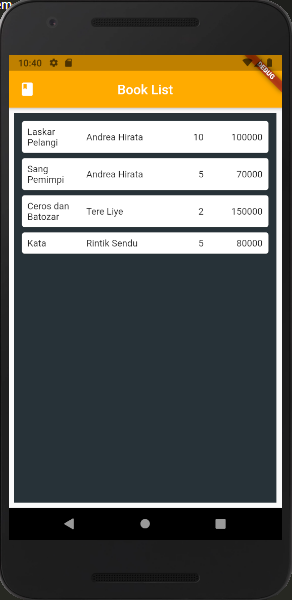
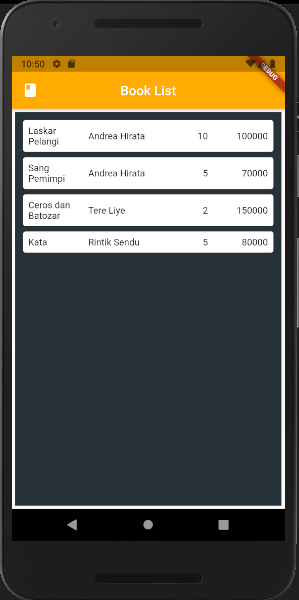
add image Tugas Praktikum-Navigasi Dan Rute

Changed region(s): [[0.0, 0.0, 1.0, 0.99], [0.6781, 0.0, 0.7089, 0.03]]

diff --git a/lib/pages/item_page.dart b/lib/pages/item_page.dart
@@ -36,7 +36,7 @@ class ItemPage extends StatelessWidget {
                       Container(
                         margin: EdgeInsets.only(bottom: 10),
                         child: Text(
-                          "Nama : " + tempItem.judul,
+                          "Judul Buku : " + tempItem.judul,
                           style: TextStyle(
                             fontSize: 15,
                             fontFamily: 'Candara',

diff --git a/lib/pages/home_page.dart b/lib/pages/home_page.dart
@@ -31,7 +31,7 @@ class HomePage extends StatelessWidget {
         ),
       body: Container(
           color: Colors.blueGrey[900],
-          margin: EdgeInsets.all(8),
+          margin: EdgeInsets.all(5),
           child: ListView.builder(
             padding: EdgeInsets.all(8),
             itemCount: items.length,
